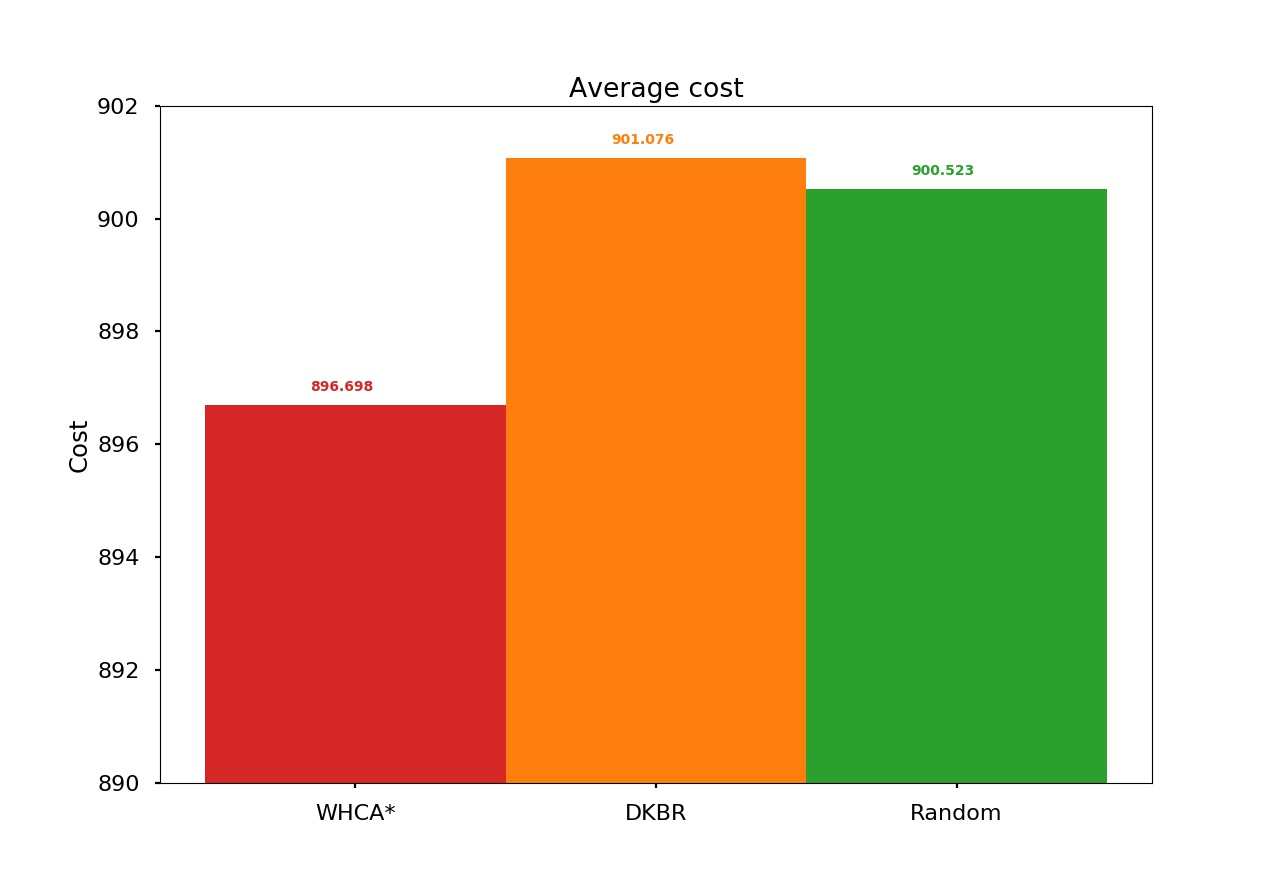
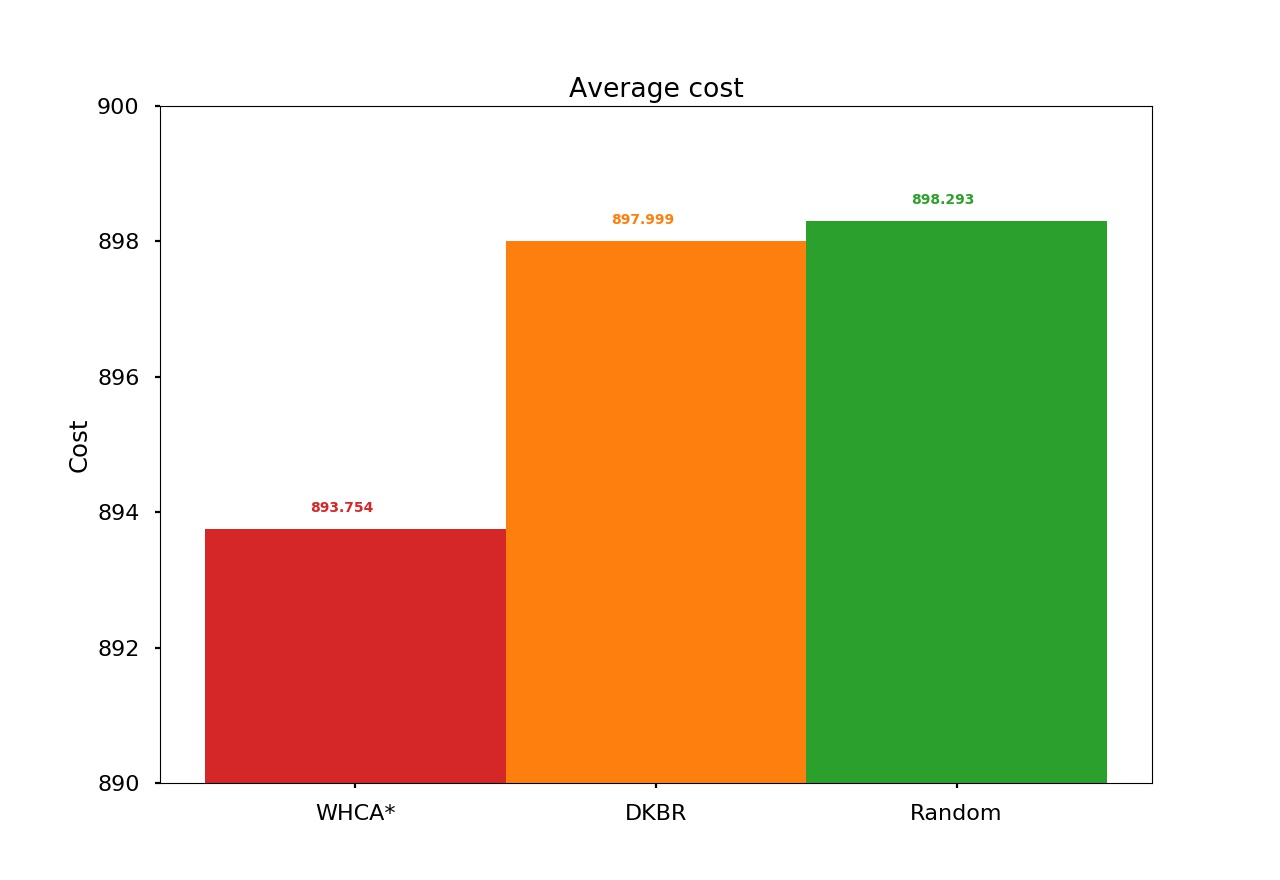
updated pics

diff --git a/plot_result.py b/plot_result.py
@@ -11,54 +11,65 @@ def plot_data(results_x, prev_x=1, name=None):
     WHCA_line, = plt.plot(x, [p for p in results_x[0]],'C3', lw=0.8, label="WHCA*")
     plt.legend(handles=[WHCA_line, DKBR_line, Random_line])
     plt.ylabel("Cost")
-    plt.xlabel("Trial number")
+    plt.xlabel("Number of items")
     plt.title('Cost for each algorithm')
     if name:
         plt.savefig(name)
     plt.show()
 
-def plot_markers(results_x):
-    x = [i for i in range(1, len(results_x[0])+1)]
+def plot_markers(results_x, prev_x=1):
+    x = [i for i in range(prev_x, len(results_x[0])+prev_x)]
     DKBR_line, = plt.plot(x, [p for p in results_x[1]], 'C1.', lw=0.8, label="DKBR")
-    Random_line, = plt.plot(x, [p for p in results_x[2]], 'C2-', lw=0.8, label="Random")
-    WHCA_line, = plt.plot(x, [p for p in results_x[0]],'C3', lw=0.6, label="WHCA*")
+    Random_line, = plt.plot(x, [p for p in results_x[2]], 'C2*', lw=0.8, label="Random")
+    WHCA_line, = plt.plot(x, [p for p in results_x[0]],'C3-', lw=0.6, label="WHCA*")
     plt.legend(handles=[WHCA_line, DKBR_line, Random_line])
     plt.ylabel("Difference to WHCA*")
     plt.xlabel("Trial number")
     plt.show()
 
 
-result_file = open("results.txt", 'r')
-tree_fail_file = open("tree_fail_file.txt", 'r')
+#result_file = open("results.txt", 'r')
+#tree_fail_file = open("tree_fail_file.txt", 'r')
+result_file = open("results_2.input", 'r')
+tree_fail_file = open("tree_fail_file_2.intput", 'r')
+size_file = open("item_size_2.input", 'r')
 
 results_x = read_lines_from_file(result_file)
 tree_fail_x = read_lines_from_file(tree_fail_file)
+size_x = read_lines_from_file(size_file)
 
 
-major = sorted(zip(results_x[0],results_x[1],results_x[2], tree_fail_x[0], tree_fail_x[1],tree_fail_x[2]), key=lambda pair: pair[0])
+major = sorted(zip(results_x[0],results_x[1],results_x[2], tree_fail_x[0], tree_fail_x[1],tree_fail_x[2], size_x[0], size_x[1]), key=lambda pair: pair[6])
 
 data_first = []
-data_first.append([x for x, _, _, _, _, _ in major])
-data_first.append([x for _, x, _, _, _, _  in major])
-data_first.append([x for _, _, x, _, _, _  in major])
+data_first.append([x for x, _, _, _, _, _, _, _ in major])
+data_first.append([x for _, x, _, _, _, _, _, _  in major])
+data_first.append([x for _, _, x, _, _, _, _, _  in major])
 
 tree_fail_data = []
-tree_fail_data.append([x for _, _, _, x, _, _ in major])
-tree_fail_data.append([x for _, _, _, _, x, _  in major])
-tree_fail_data.append([x for _, _, _, _, _, x  in major])
+tree_fail_data.append([x for _, _, _, x, _, _, _, _ in major])
+tree_fail_data.append([x for _, _, _, _, x, _, _, _  in major])
+tree_fail_data.append([x for _, _, _, _, _, x, _, _  in major])
 
-max_count = 1
+size_data = []
+size_data.append([x for _, _, _, _, _, _, x, _  in major])
+size_data.append([x for _, _, _, _, _, _, _, x  in major])
+
+max_count = 10
 data = [[],[],[]]
 count = 0
 accum1 = 0
 accum2 = 0
 accum3 = 0
+
+prev_size = size_data[0][0]
 for i in range(0, len(data_first[0])):
     accum1 += data_first[0][i]
     accum2 += data_first[1][i]
     accum3 += data_first[2][i]
     count += 1
-    if count == max_count:
+    if size_data[0][i] != prev_size:
+    #if count == max_count:
         data[0].append(accum1/count)
         data[1].append(accum2/count)
         data[2].append(accum3/count)
@@ -66,6 +77,7 @@ for i in range(0, len(data_first[0])):
         accum2 = 0
         accum3 = 0
         count = 0
+        prev_size = size_data[0][i]
 
 if count != 0:
     data[0].append(accum1/count)
@@ -100,9 +112,9 @@ data5[2] = data[2][4*increment:len(data[2])]
 plot_data(data, name='all_tests.jpg') # THIS NOE
 #plot_data(data1)
 #plot_data(data2, increment)
-plot_data(data3, 2*increment, name='zoomed.jpg') # THIS ONE
+#plot_data(data3, 2*increment) # THIS ONE
 #plot_data(data4, 3*increment)
-#plot_data(data5, 4*increment)
+plot_data(data5, 4*increment, name='zoomed.jpg')
 
 difference_data = [[],[],[]]
 difference_data[0] = np.subtract(data[0], data[0])
@@ -140,7 +152,7 @@ kwargs.update(transform=ax2.transAxes)  # switch to the bottom axes
 ax2.plot((-d, +d), (1 - d, 1 + 7.5*d), **kwargs)  # bottom-left diagonal
 ax2.plot((1 - d, 1 + d), (1 - d, 1 + 7.5*d), **kwargs)  # bottom-right diagonal
 
-ax.set_ylim(10000, 12000)  # outliers only
+ax.set_ylim(10000, 11500)  # outliers only
 ax2.set_ylim(0, 100)
 
 ax.text(0.783, sum(tree_fail_data[1]) + 10, str(sum(tree_fail_data[1])), color='black', fontweight='bold')
@@ -156,16 +168,16 @@ plt.xticks([0.8, 1.2], ['DKBR', 'Random'])
 plt.savefig('number_of_collisions.jpg')
 plt.show()
 
-WHCA_avg = 896.698
-DKBR_avg = 901.076
-RND_avg = 900.523
+WHCA_avg = 893.754
+DKBR_avg = 897.999
+RND_avg = 898.293
 
 x = [1]
 ax = plt.subplot(111)
 ax.bar([0.8], [WHCA_avg],width=0.2,color='C3',align='center')
 ax.bar([1], [DKBR_avg],width=0.2,color='C1',align='center')
 ax.bar([1.2], [RND_avg],width=0.2,color='C2',align='center')
-ax.set_ylim(890, 902)  # outliers only
+ax.set_ylim(890, 900)  # outliers only
 
 ax.text(0.77, WHCA_avg + .25, str(WHCA_avg), color='C3', fontweight='bold')
 ax.text(0.97, DKBR_avg + .25, str(DKBR_avg), color='C1', fontweight='bold')
